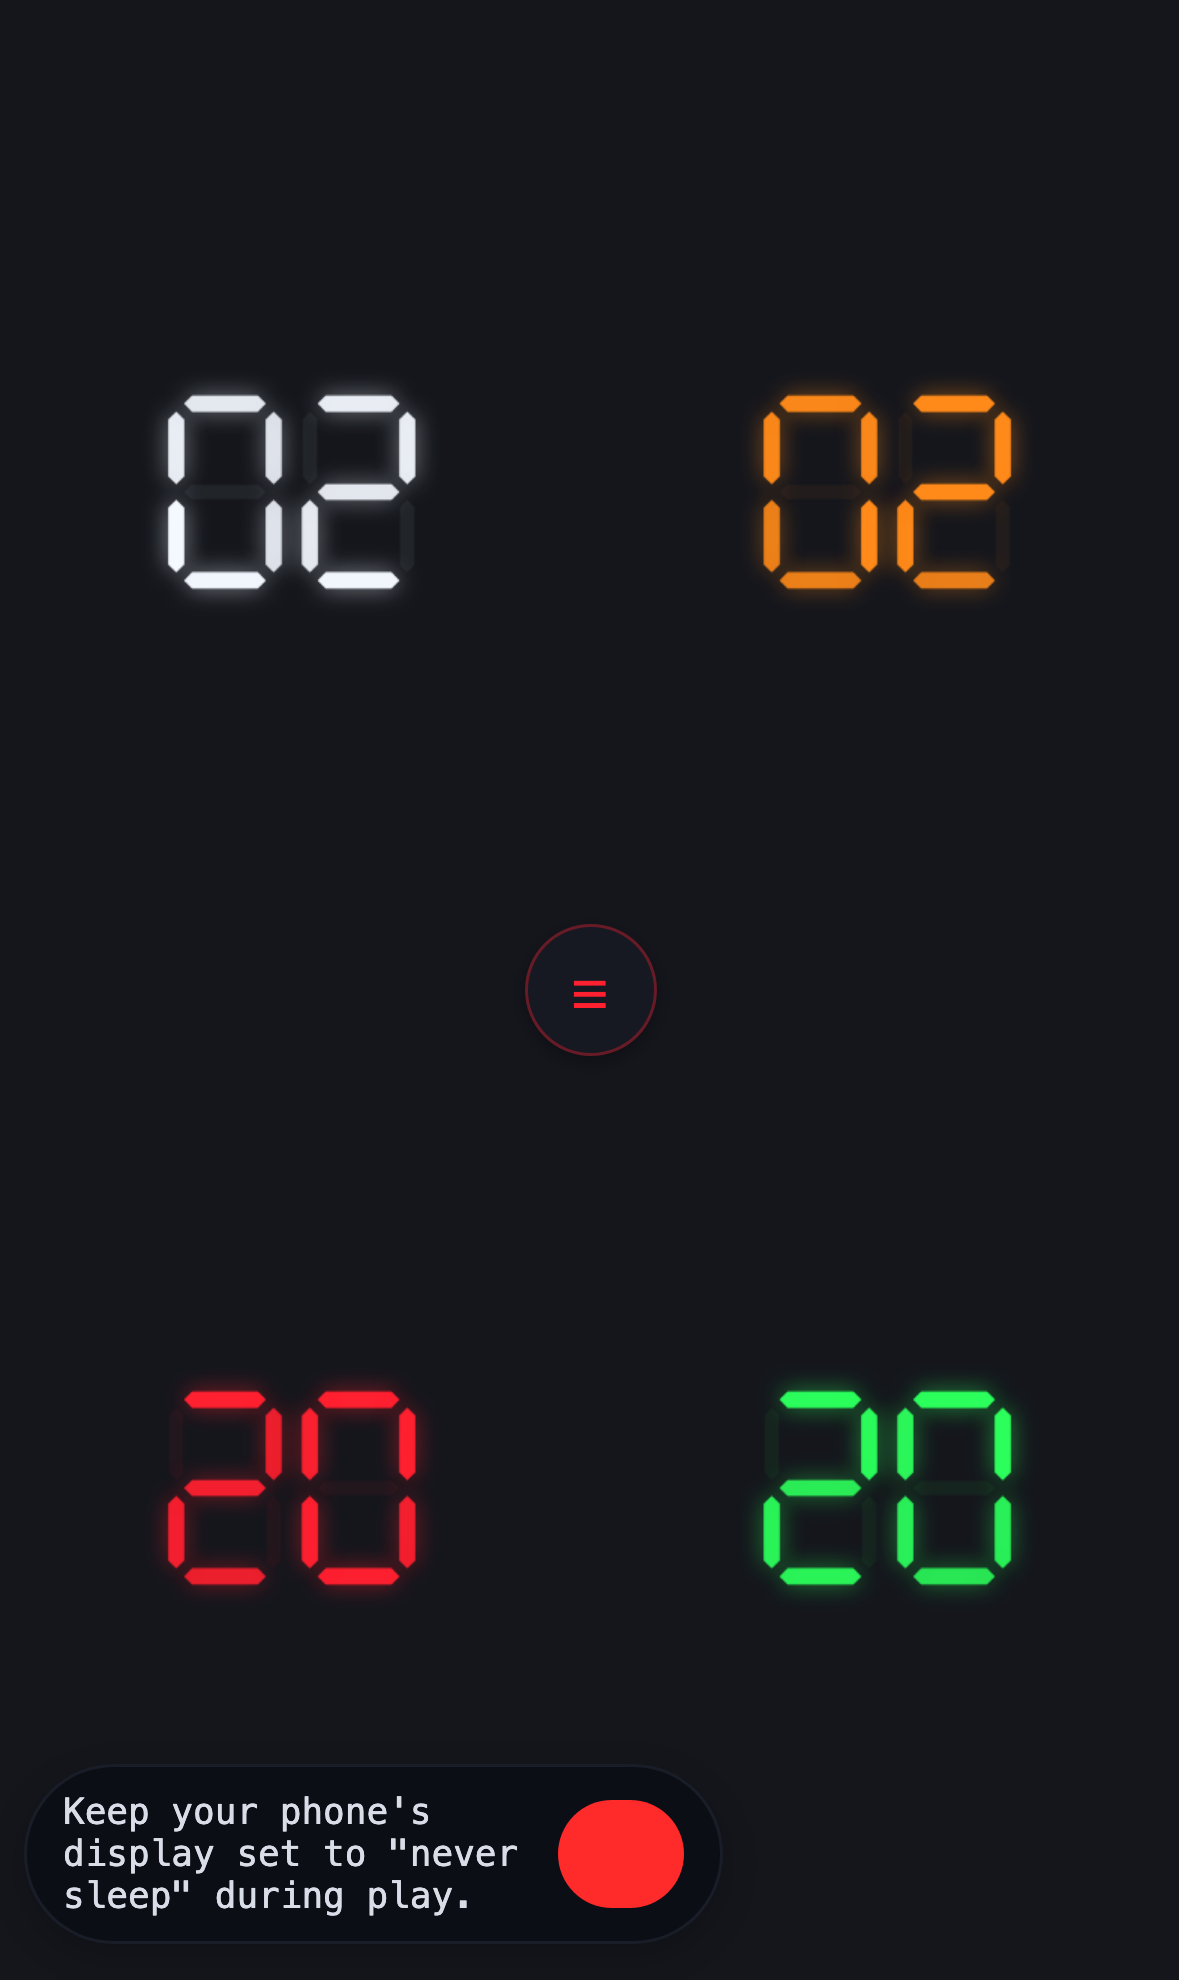
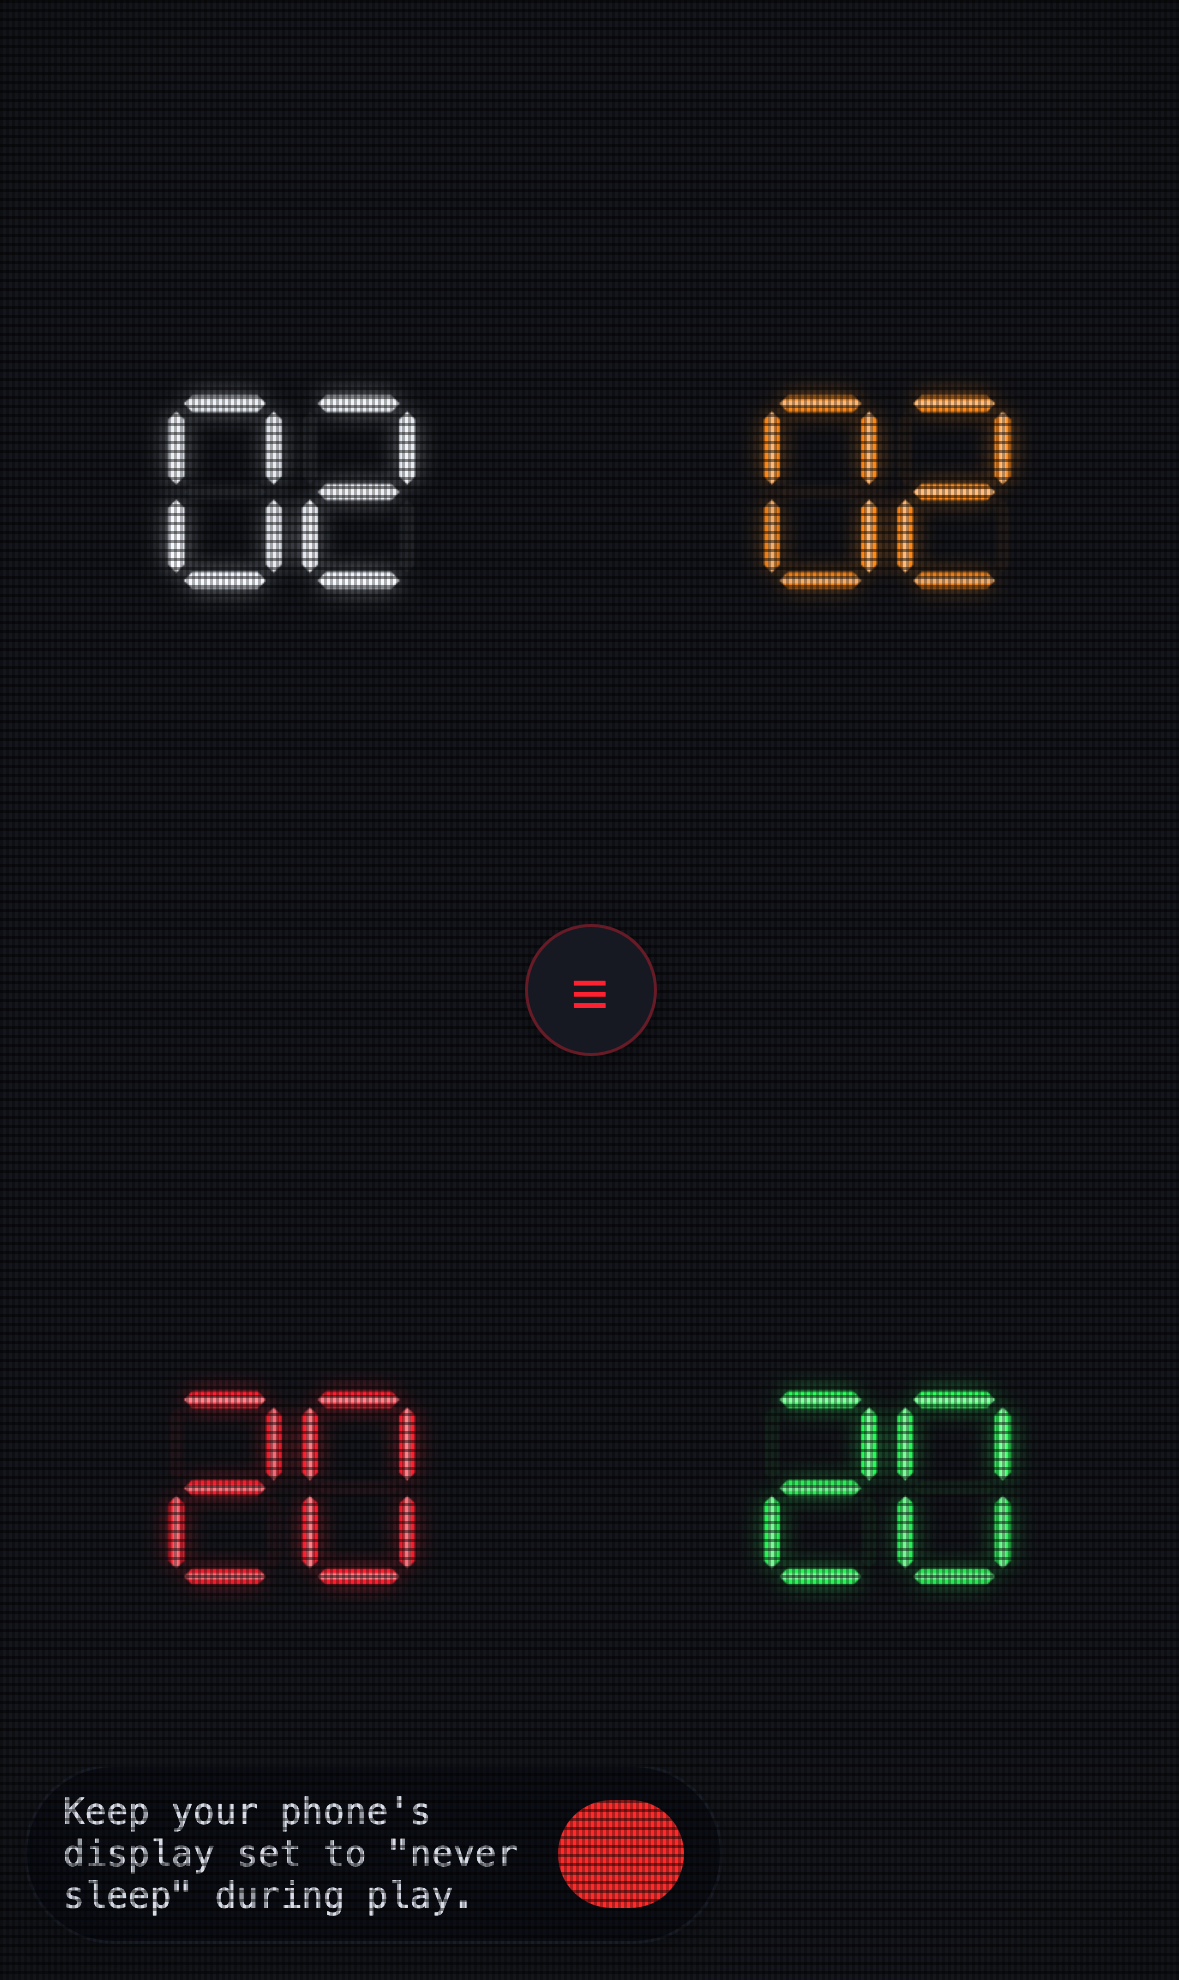
7seg: CRT only on digits + Apollo-VFD white hot core
Two changes:

1. CRT overlay now only marks the LIT segments, not the empty black
   space between digits. Switched body[data-skin="seven-seg"]::after
   from WHITE scanlines + normal blend to BLACK scanlines + mix-blend-
   mode: multiply. anything × 0 = 0, so the overlay no-ops over the
   black background; multiplied with a coloured digit it darkens that
   pixel into the classic CRT stripe pattern. Default scanline alpha
   bumped 0.045 → 0.45 since multiply needs more punch to be visible.
   Slider max also widened.

2. Apollo-VFD "hot core" — each segment now draws a thinner white
   hex on top of the coloured fill, simulating the overexposed-tube
   look from Gerald's reference where the centre of every segment
   reads almost white with the colour bleeding only at the edges.
   Two new sliders:
   - Hot-core white α (0-1, default 0.45)
   - Hot-core thickness (0.1-0.9 of segment thickness, default 0.40)
   Setting Hot-core α to 0 returns to pure-coloured segments.

Verified Playwright iPhone-14-Pro 2P + 5P: scanlines visible as dark
ridges through the digits, invisible on the black bg; white core
visible in every coloured segment (red, green, white, orange, blue);
zero console errors.

diff --git a/js/sevenseg.js b/js/sevenseg.js
@@ -45,6 +45,8 @@ const DEFAULTS = {
   ghostAlpha: 0.06,         // visibility of "off" segments
   jitterAmount: 0.25,       // 0-1, how much per-segment brightness varies
   bloomAlpha: 0.10,         // faint rect bloom drawn behind each segment
+  coreWhite: 0.45,          // 0-1, opacity of the white "hot core" inside each segment
+  coreThickness: 0.40,      // 0.1-0.9, white-core hex thickness as fraction of segment thickness
 };
 
 const STATE = {
@@ -92,8 +94,10 @@ export const SLIDERS = [
   { key: "glowBlur", label: "Glow blur (px)", min: 0, max: 40, step: 1, default: 16 },
   { key: "ghostAlpha", label: "Ghost segment α", min: 0, max: 0.30, step: 0.005, default: 0.06 },
   { key: "jitterAmount", label: "Brightness jitter", min: 0, max: 0.50, step: 0.01, default: 0.25 },
-  { key: "scanlineAlpha", label: "CRT scanlines α", min: 0, max: 0.20, step: 0.005, default: 0.045 },
-  { key: "vgrilleAlpha", label: "CRT aperture α", min: 0, max: 0.20, step: 0.005, default: 0.04 },
+  { key: "coreWhite", label: "Hot-core white α", min: 0, max: 1.0, step: 0.02, default: 0.45 },
+  { key: "coreThickness", label: "Hot-core thickness", min: 0.10, max: 0.90, step: 0.02, default: 0.40 },
+  { key: "scanlineAlpha", label: "CRT scanlines α", min: 0, max: 0.90, step: 0.02, default: 0.45 },
+  { key: "vgrilleAlpha", label: "CRT aperture α", min: 0, max: 0.80, step: 0.02, default: 0.30 },
   { key: "vignetteAlpha", label: "CRT vignette α", min: 0, max: 1.0, step: 0.02, default: 0.55 },
   { key: "flickerDuration", label: "CRT flicker (s, 0=off)", min: 0, max: 10, step: 0.5, default: 4.5 },
 ];
@@ -253,6 +257,15 @@ function drawSegment(ctx, x1, y1, x2, y2, thickness, color, brightness, isOn) {
   ctx.globalAlpha = Math.min(1, brightness);
   ctx.shadowBlur = 0;
   ctx.fill();
+
+  // 3. White "hot core" — thinner hex on top, Apollo-VFD overexposure look.
+  //    Controlled by the coreWhite + coreThickness sliders.
+  if (DEFAULTS.coreWhite > 0) {
+    ctx.globalAlpha = Math.min(1, DEFAULTS.coreWhite * brightness);
+    ctx.fillStyle = "#ffffff";
+    hexPath(ctx, x1, y1, x2, y2, thickness * DEFAULTS.coreThickness);
+    ctx.fill();
+  }
 
   ctx.globalAlpha = 1;
   ctx.shadowBlur = 0;

diff --git a/index.html b/index.html
@@ -11,22 +11,22 @@
 
 <title>laifukeisan</title>
 
-<link rel="manifest" href="manifest.webmanifest?v=53678c0d">
-<link rel="apple-touch-icon" href="icons/apple-touch-icon.png?v=53678c0d">
+<link rel="manifest" href="manifest.webmanifest?v=c8d2656b">
+<link rel="apple-touch-icon" href="icons/apple-touch-icon.png?v=c8d2656b">
 
-<link rel="stylesheet" href="css/tokens.css?v=53678c0d">
-<link rel="stylesheet" href="css/base.css?v=53678c0d">
-<link rel="stylesheet" href="css/layout.css?v=53678c0d">
-<link rel="stylesheet" href="css/skins.css?v=53678c0d">
+<link rel="stylesheet" href="css/tokens.css?v=c8d2656b">
+<link rel="stylesheet" href="css/base.css?v=c8d2656b">
+<link rel="stylesheet" href="css/layout.css?v=c8d2656b">
+<link rel="stylesheet" href="css/skins.css?v=c8d2656b">
   <meta http-equiv="Cache-Control" content="no-cache, no-store, must-revalidate">
   <meta http-equiv="Pragma" content="no-cache">
   <meta http-equiv="Expires" content="0">
-  <meta name="cb" content="53678c0d">
-  <link rel="icon" type="image/svg+xml" href="cb-shapes/19.svg?v=53678c0d">
+  <meta name="cb" content="c8d2656b">
+  <link rel="icon" type="image/svg+xml" href="cb-shapes/08.svg?v=c8d2656b">
 </head>
 <body data-skin="pastel">
 <main id="board" aria-label="Life counters"></main>
 
-<script type="module" src="js/main.js?v=53678c0d"></script>
+<script type="module" src="js/main.js?v=c8d2656b"></script>
 </body>
 </html>

diff --git a/css/skins.css b/css/skins.css
@@ -184,25 +184,27 @@ body[data-skin="seven-seg"]::after {
   pointer-events: none;
   z-index: 5;
   background:
-    /* horizontal scanlines */
+    /* horizontal scanlines — BLACK so multiply leaves the black bg untouched
+       (anything × black = black) but darkens any lit digit underneath into
+       the classic CRT row pattern */
     repeating-linear-gradient(
       to bottom,
-      rgba(255, 255, 255, var(--crt-scanline-alpha, 0.045)) 0 1px,
+      rgba(0, 0, 0, var(--crt-scanline-alpha, 0.45)) 0 1px,
       transparent 1px 3px
     ),
-    /* faint vertical aperture-grille hint */
+    /* vertical aperture-grille hint — same logic, also black */
     repeating-linear-gradient(
       to right,
-      rgba(0, 0, 0, var(--crt-vgrille-alpha, 0.04)) 0 1px,
+      rgba(0, 0, 0, var(--crt-vgrille-alpha, 0.30)) 0 1px,
       transparent 1px 2px
     ),
-    /* corner vignette */
+    /* corner vignette — darkens edges if/when something there to darken */
     radial-gradient(
       ellipse 120% 100% at center,
       transparent 55%,
       rgba(0, 0, 0, var(--crt-vignette-alpha, 0.55)) 100%
     );
-  mix-blend-mode: normal;
+  mix-blend-mode: multiply;
   animation: crt-flicker var(--crt-flicker-duration, 4.5s) steps(60) infinite;
 }
 @keyframes crt-flicker {

diff --git a/sw.js b/sw.js
@@ -1,4 +1,4 @@
-const CB_TOKEN = "53678c0d";
+const CB_TOKEN = "c8d2656b";
 const CACHE_NAME = `lifecounter-${CB_TOKEN}`;
 
 const BADGE_CELLS = [0, 1, 2].map(i =>
